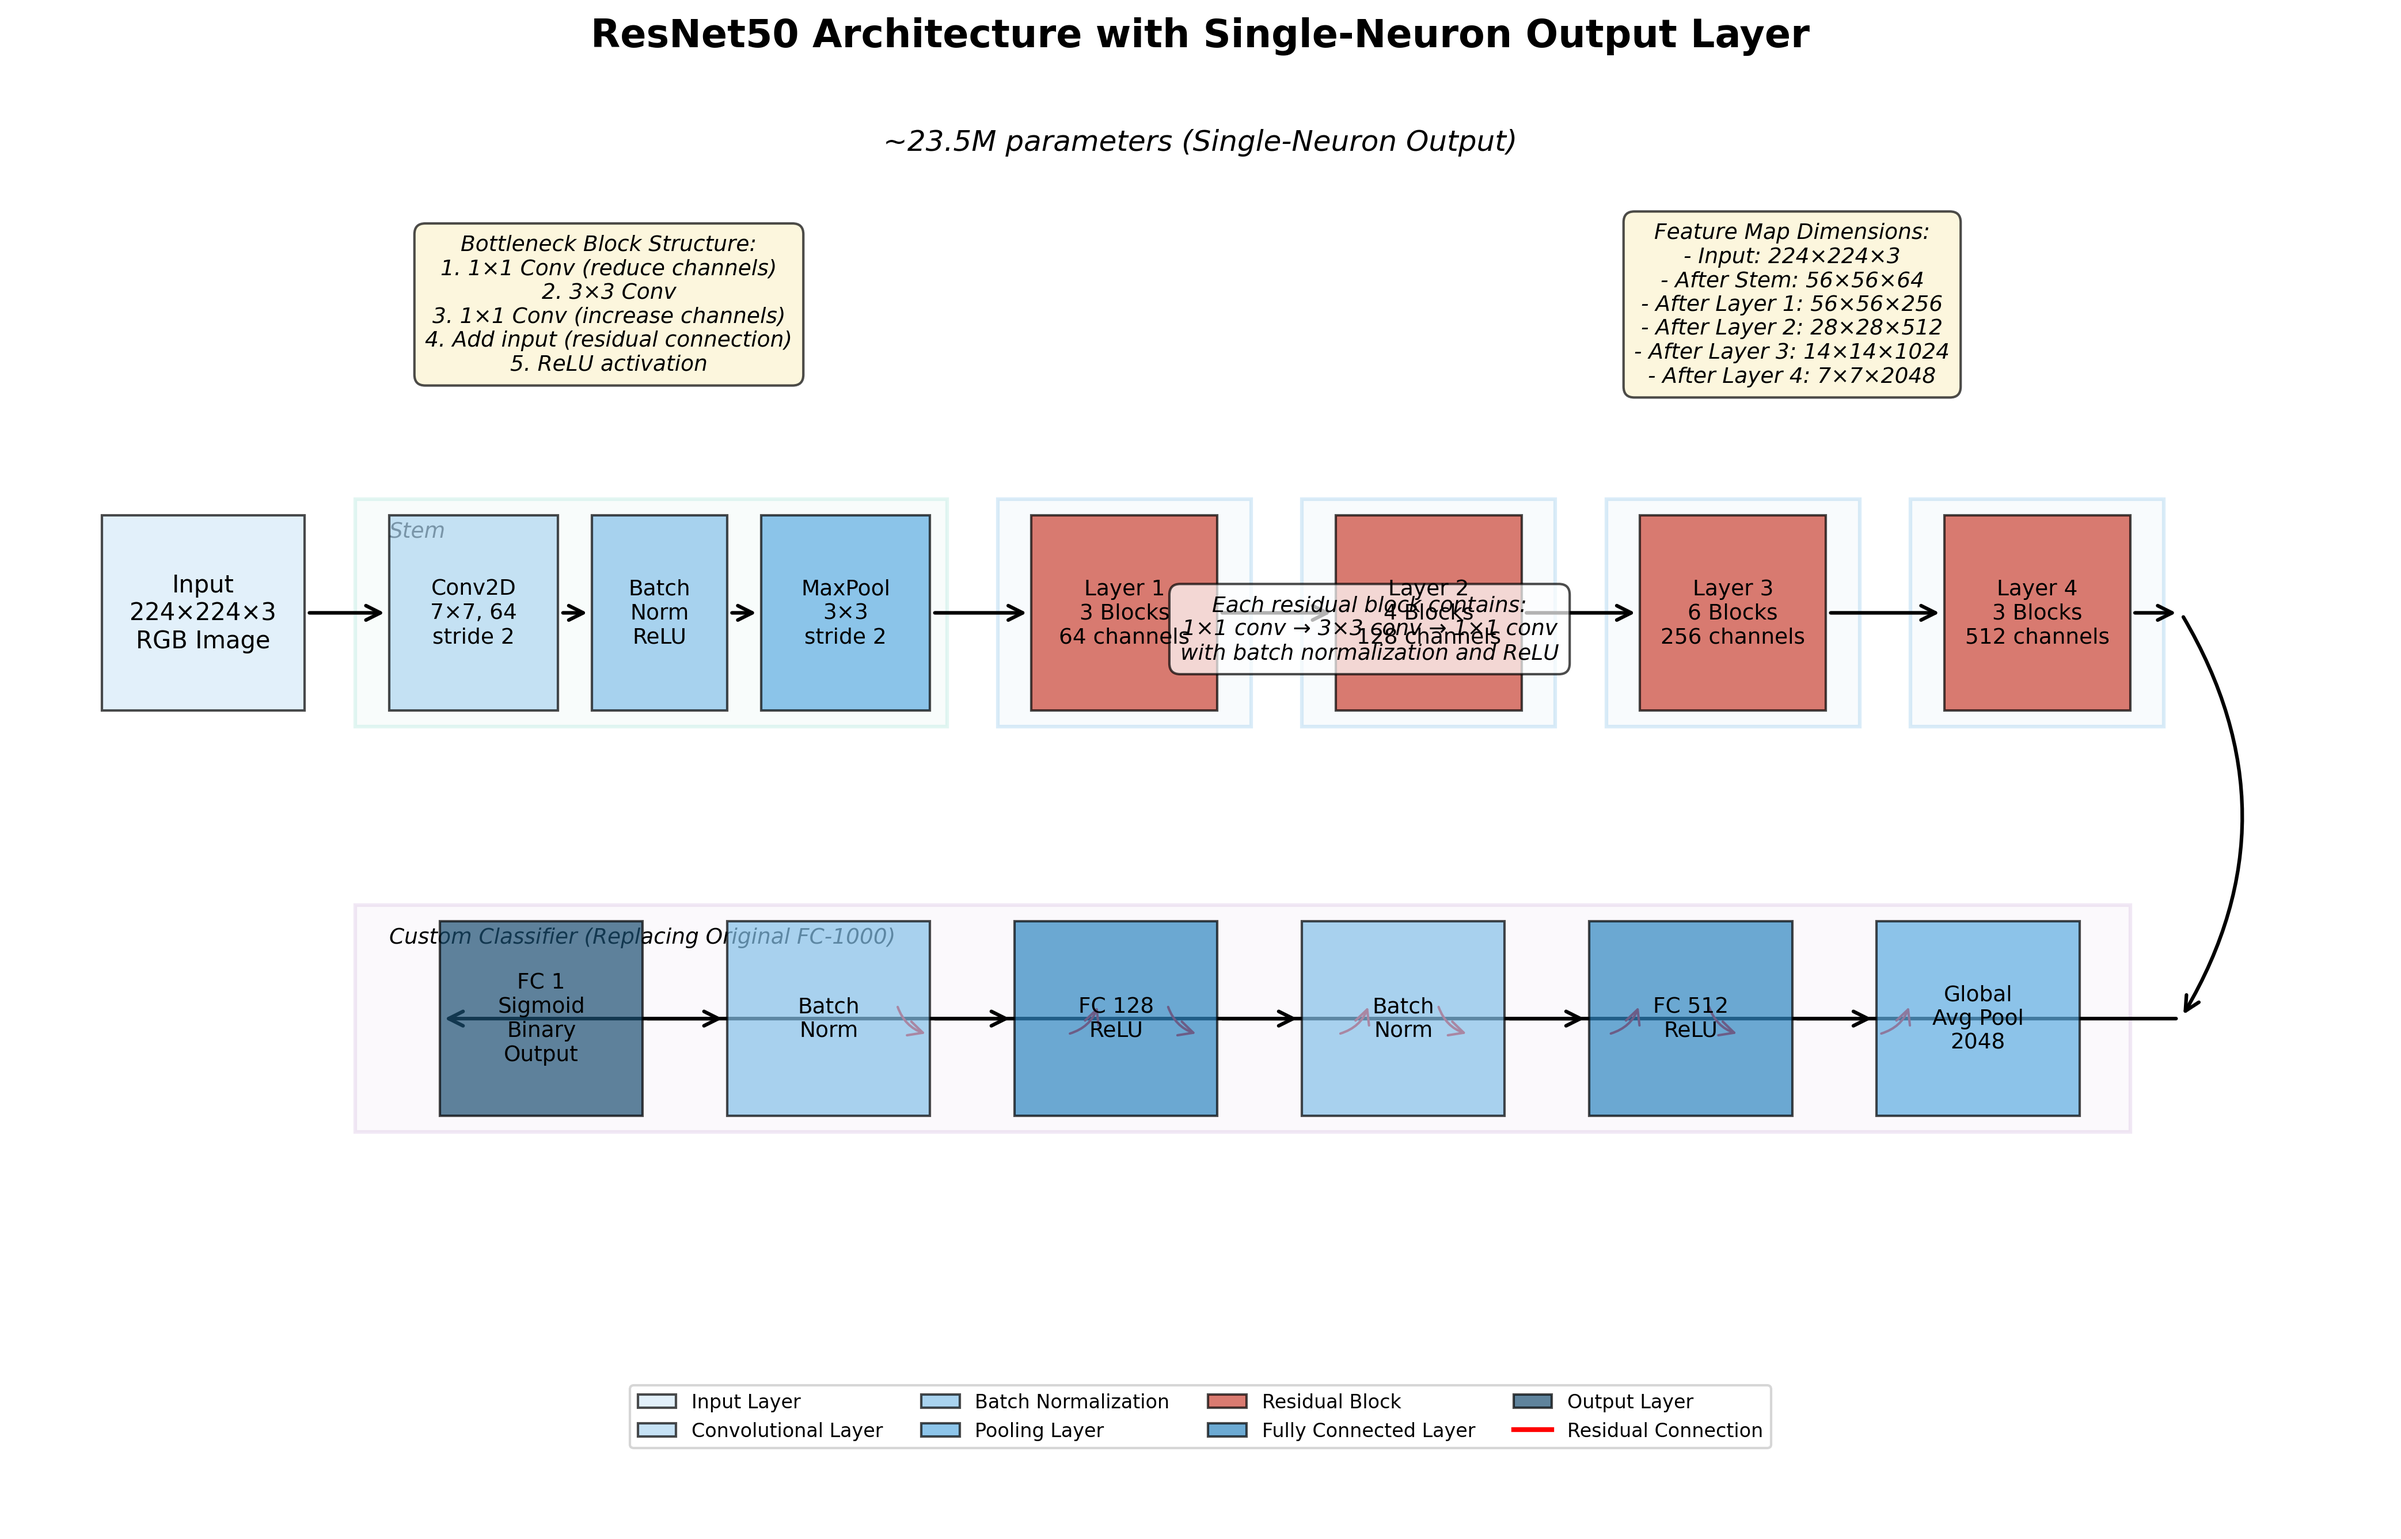
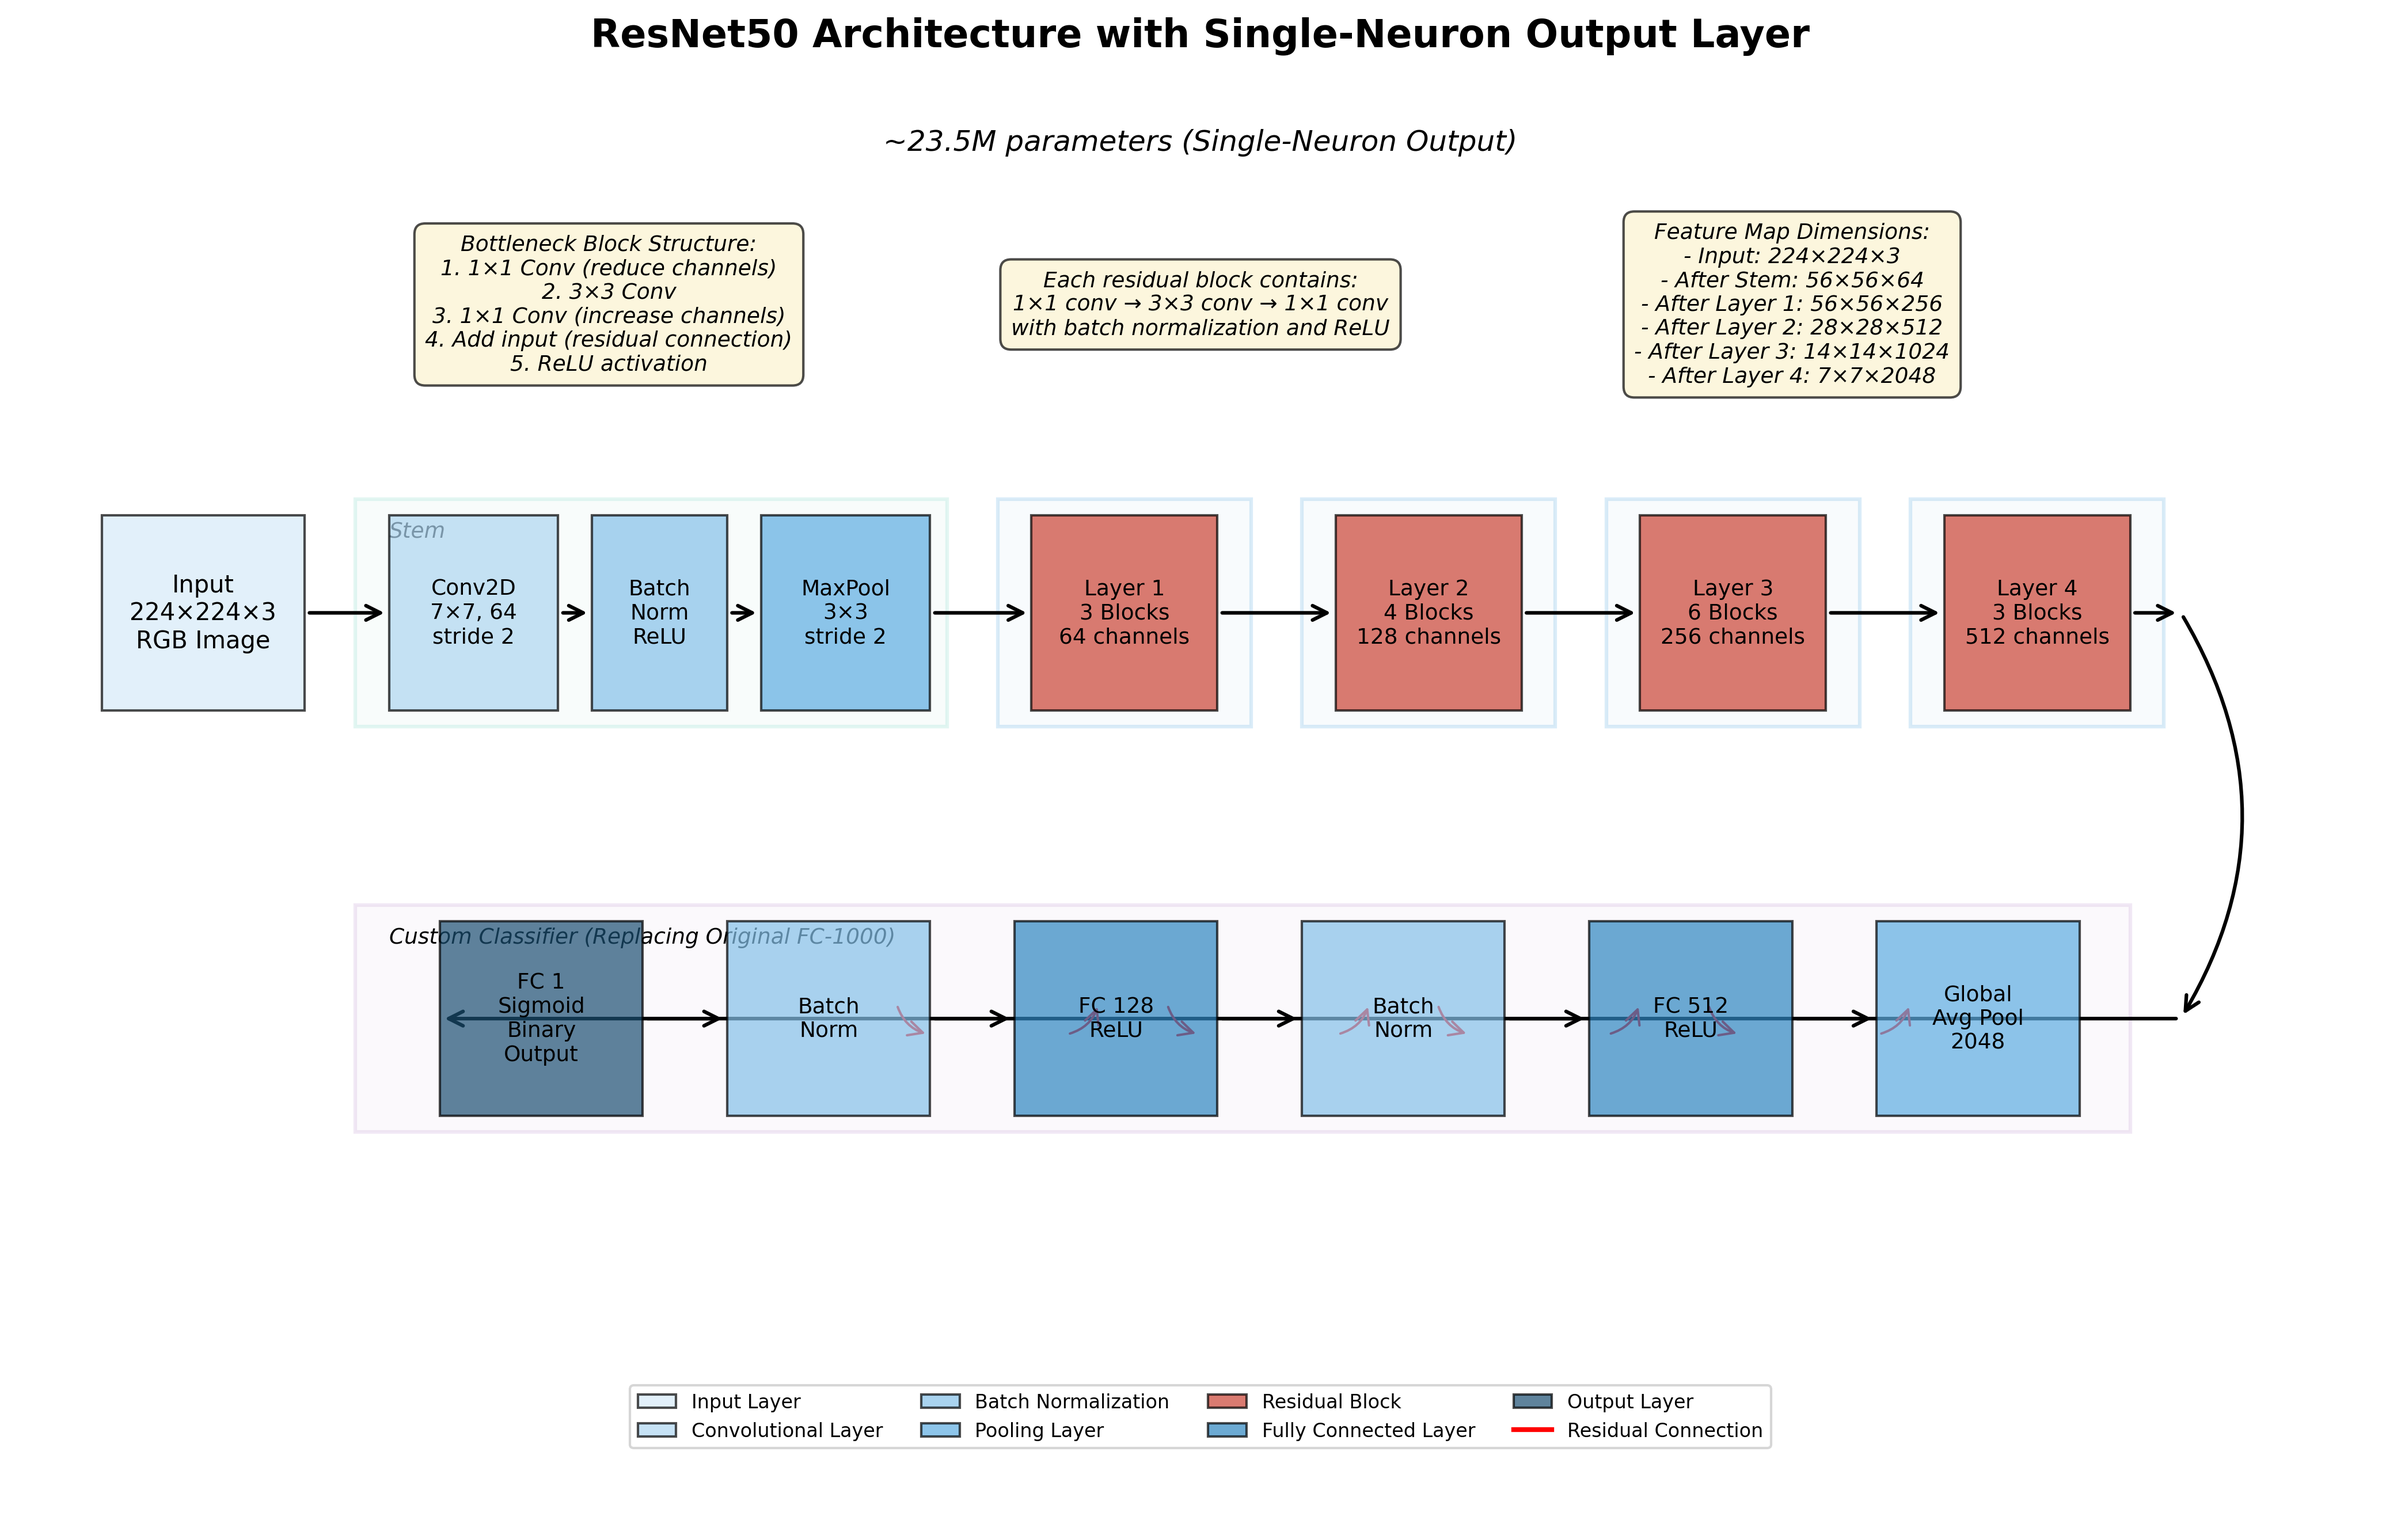
arch diagram [draft]

Changed region(s): [[0.4053, 0.1553, 0.5923, 0.2484], [0.4676, 0.3726, 0.6547, 0.4658]]

diff --git a/src/create_architecture_diagrams.py b/src/create_architecture_diagrams.py
@@ -118,7 +118,11 @@ def create_small_cnn_diagram(output_neurons=1):
     draw_box(ax, 12.6, block2_y, 0.9, 1.2, COLORS['pool'], 'MaxPool\n2×2\n8×8', fontsize=9, zorder=3)
     
     # Third convolutional block (shown as a note)
-    add_info_box(ax, 7, 6, "Block 3: 128 Filters\n- Conv2D 3×3, 128, ReLU\n- Batch Normalization\n- Conv2D 3×3, 128, ReLU\n- Batch Normalization\n- MaxPool 2×2 → 4×4\n- Dropout 0.3", 
+    add_info_box(ax, 5, 6, "Block 3: 128 Filters\n- Conv2D 3×3, 128, ReLU\n- Batch Normalization\n- Conv2D 3×3, 128, ReLU\n- Batch Normalization\n- MaxPool 2×2 → 4×4\n- Dropout 0.3", 
+                fontsize=9, color=COLORS['note'])
+    
+    # Add dimension information (moved to top of diagram)
+    add_info_box(ax, 9, 6, "Feature Dimensions:\n- Input: 32×32×3\n- After Block 1: 16×16×32\n- After Block 2: 8×8×64\n- After Block 3: 4×4×128\n- Flattened: 2048 features", 
                 fontsize=9, color=COLORS['note'])
     
     # Fully connected layers
@@ -143,9 +147,7 @@ def create_small_cnn_diagram(output_neurons=1):
     draw_box(ax, 5.0, fc_y, 0.8, 1.2, COLORS['bn'], 'Batch\nNorm', fontsize=9, zorder=3)
     draw_box(ax, 6.1, fc_y, 1.8, 1.2, COLORS['fc'], 'Flatten\n→ FC 256\nReLU', fontsize=9, zorder=3)
 
-    # Add dimension information
-    add_info_box(ax, 11, 2.5, "Feature Dimensions:\n- Input: 32×32×3\n- After Block 1: 16×16×32\n- After Block 2: 8×8×64\n- After Block 3: 4×4×128\n- Flattened: 2048 features", 
-                fontsize=9, color=COLORS['note'])
+    # Feature dimensions information moved to top of diagram
     
     # Arrows connecting components - Block 1
     draw_arrow(ax, (1.7, 4.6), (2.2, 4.6), linewidth=1.5, zorder=2)
@@ -286,6 +288,10 @@ def create_resnet_diagram(output_neurons=1):
     add_info_box(ax, 3.5, 7.5, "Bottleneck Block Structure:\n1. 1×1 Conv (reduce channels)\n2. 3×3 Conv\n3. 1×1 Conv (increase channels)\n4. Add input (residual connection)\n5. ReLU activation", 
                 fontsize=9, color=COLORS['note'])
     
+    # Add residual block description (moved to top between other info boxes)
+    add_info_box(ax, 7.0, 7.5, "Each residual block contains:\n1×1 conv → 3×3 conv → 1×1 conv\nwith batch normalization and ReLU", 
+                fontsize=9, color=COLORS['note'])
+    
     # Add feature map sizes
     add_info_box(ax, 10.5, 7.5, "Feature Map Dimensions:\n- Input: 224×224×3\n- After Stem: 56×56×64\n- After Layer 1: 56×56×256\n- After Layer 2: 28×28×512\n- After Layer 3: 14×14×1024\n- After Layer 4: 7×7×2048", 
                 fontsize=9, color=COLORS['note'])
@@ -353,10 +359,7 @@ def create_resnet_diagram(output_neurons=1):
     draw_arrow(ax, (10, 3.2), (10.2, 3), color='red', style='arc3,rad=0.3')
     draw_arrow(ax, (11, 3), (11.2, 3.2), color='red', style='arc3,rad=0.3')
     
-    # Add a note about residual blocks
-    ax.text(8, 5.5, "Each residual block contains:\n1×1 conv → 3×3 conv → 1×1 conv\nwith batch normalization and ReLU", 
-            ha='center', va='center', fontsize=9, style='italic',
-            bbox=dict(facecolor='white', alpha=0.7, boxstyle='round,pad=0.5'))
+    # Removed the overlapping note about residual blocks (moved to top of diagram)
     
     # Add a note about transfer learning
     # ax.text(3, 6.5, "Transfer Learning Strategy:\nFreeze all layers except Layer 4 and classifier", 
@@ -396,10 +399,10 @@ def create_vit_diagram(output_neurons=1):
     # Title with more descriptive information
     if output_neurons == 1:
         title = "Vision Transformer (ViT) Architecture with Single-Neuron Output"
-        param_info = "~86M parameters (Single-Neuron Output), ~5.8M trainable"
+        param_info = "~86M parameters (Single-Neuron Output)       ViT-B/16"
     else:
         title = "Vision Transformer (ViT) Architecture with Dual-Neuron Output"
-        param_info = "~86M parameters (Dual-Neuron Output), ~5.8M trainable"
+        param_info = "~86M parameters (Dual-Neuron Output)       ViT-B/16"
     ax.text(8, 15, title, fontsize=14, weight='bold', ha='center', va='center')
     ax.text(8, 14.2, param_info, fontsize=12, ha='center', va='center', style='italic')
     
@@ -511,17 +514,17 @@ def create_vit_diagram(output_neurons=1):
     add_info_box(ax, 3.5, 8.5, "Each Transformer Encoder Block contains:\n- Multi-Head Self-Attention (12 heads)\n- Layer Normalization\n- MLP with GELU activation\n- Residual connections", 
                 fontsize=10, color=COLORS['note'], zorder=3)
     
-    # Add note about transfer learning
-    # add_info_box(ax, 3.5, 9.5, "Transfer Learning Strategy:\n- Freeze first 10 encoder blocks\n- Train only blocks 11-12 and classifier\n- Leverages ImageNet pre-trained weights", 
-    #             fontsize=10, color=COLORS['note'], zorder=3)
-    
-    # Add note about patch embedding - repositioned
-    add_info_box(ax, 12.5, 13.5, "Patch Embedding Process:\n- Split 224×224 image into 16×16 patches\n- Flatten patches to 768-dim vectors\n- Add learnable class token [CLS]\n- Add positional embeddings", 
+    # Add note about patch embedding - moved near other info boxes
+    add_info_box(ax, 3.5, 6.5, "Patch Embedding Process:\n- Split 224×224 image into 16×16 patches\n- Flatten patches to 768-dim vectors\n- Add learnable class token [CLS]\n- Add positional embeddings", 
                 fontsize=10, color=COLORS['note'], zorder=3)
     
     # Add note about model architecture - repositioned
     add_info_box(ax, 3.5, 4.5, "Vision Transformer (ViT) Architecture:\n- Based on ViT-B/16 model\n- 12 transformer encoder blocks\n- 768-dimensional embeddings\n- 12 attention heads per block\n- 86M total parameters", 
                 fontsize=10, color=COLORS['note'], zorder=3)
+    
+    # Add note about transfer learning
+    # add_info_box(ax, 3.5, 9.5, "Transfer Learning Strategy:\n- Freeze first 10 encoder blocks\n- Train only blocks 11-12 and classifier\n- Leverages ImageNet pre-trained weights", 
+    #             fontsize=10, color=COLORS['note'], zorder=3)
     
     # Add legend - adjusted position for new figure size
     legend_elements = [
